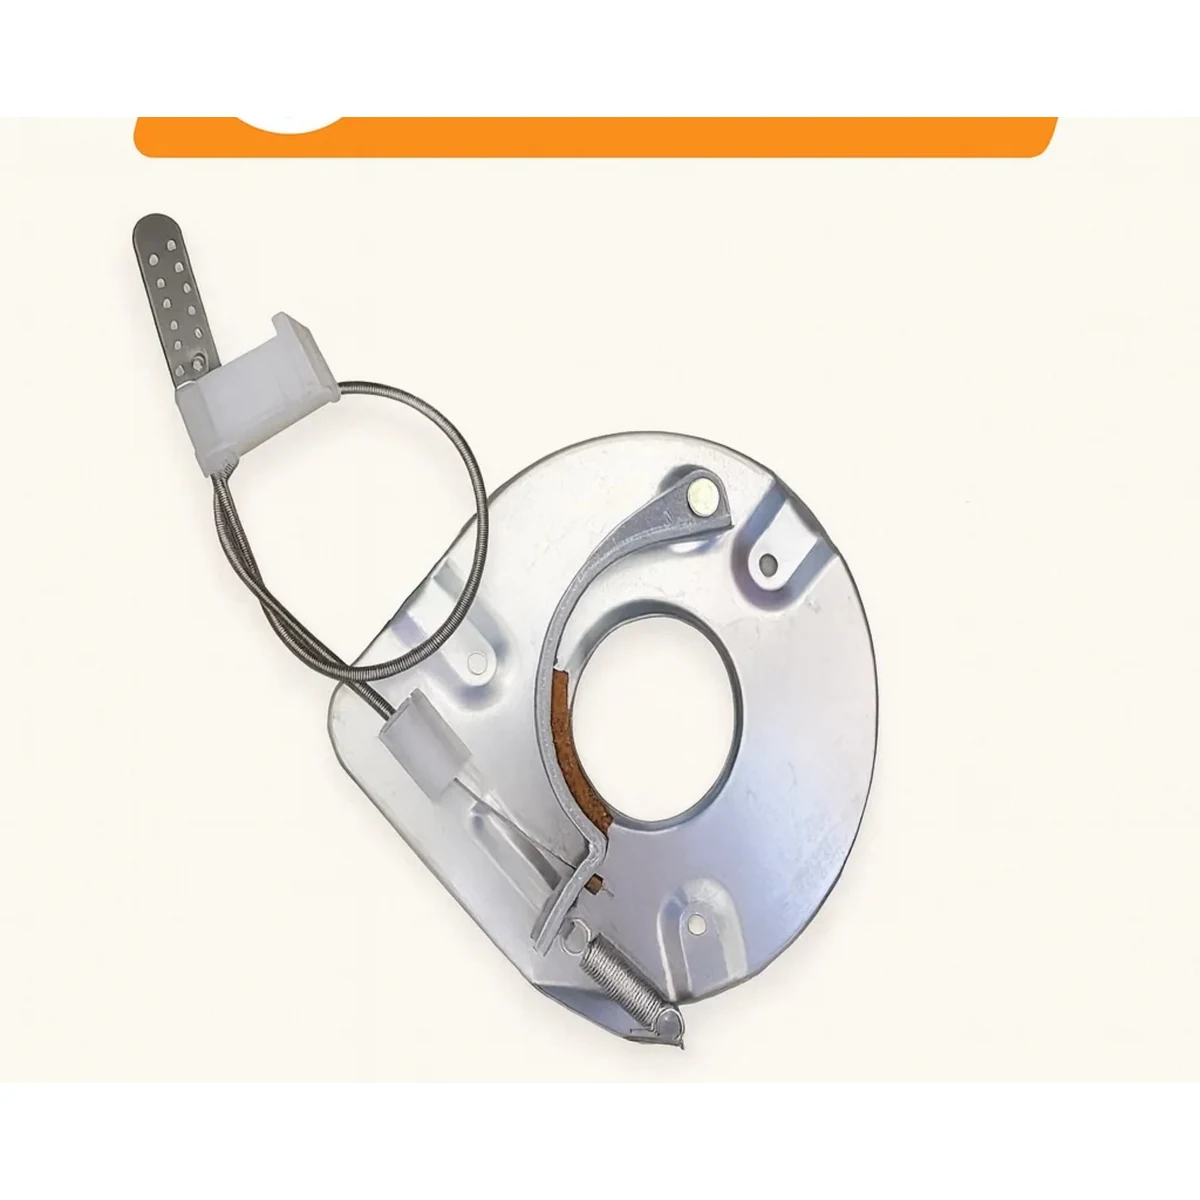
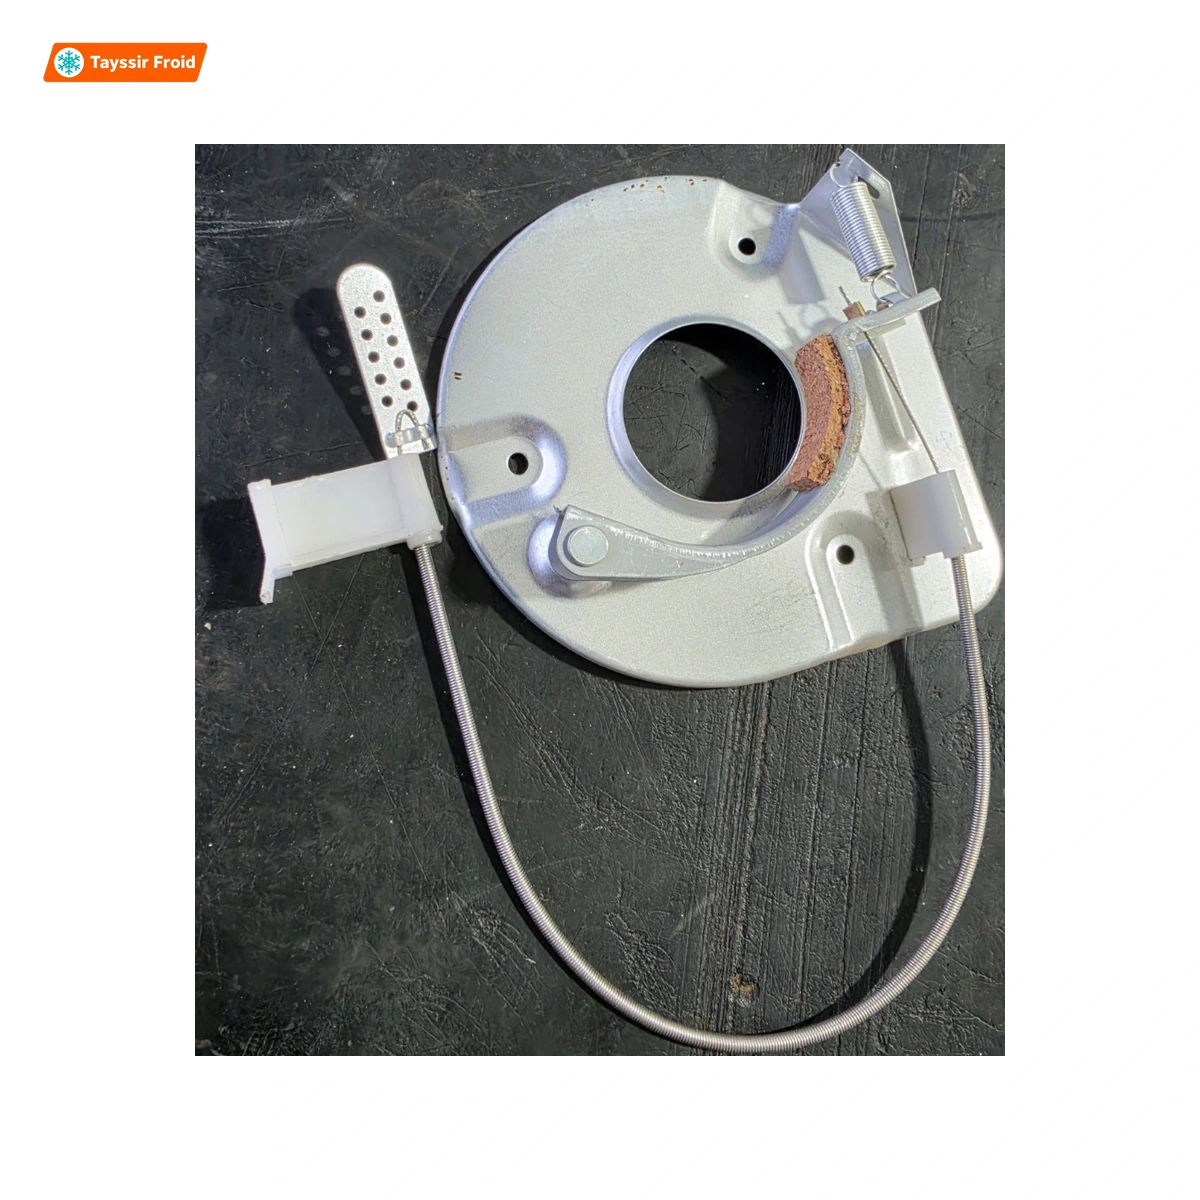
fix(catalog): replace remaining 11 unsuitable primary images with real product photos
Replace the advertising-screenshot primary images for TF-RF-005, 006,
007, 008, 009, 010, 012, 013, 016, 021, and TF-WM-046 with real product
photos, normalized to 1200x1200 WEBP with the Tayssir Froid logo
applied, matching the Phase 1 catalog convention.

TF-RF-007/TF-RF-012 mapped from the two unlabeled reference photos by
visually cross-checking them against each product's existing image
(NMB DC12V axial fan vs. LG AC white round motor) rather than guessing.
TF-RF-021's shared placeholder path (product-images/shared/) moved to
its own product folder since no TF-RF-022 product exists.

The Meta Commerce Catalog unsuitable-image exclusion list, audit
report, and image_manual_review.csv are now empty of these SKUs
(issue count 130 -> 119; excludedFromFeed 0). Only image paths changed
in product data — no name, price, description, stock, or category
touched.

diff --git a/src/lib/feed/__tests__/metaCatalog.test.ts b/src/lib/feed/__tests__/metaCatalog.test.ts
@@ -1,31 +1,12 @@
 import { describe, expect, test } from "vitest";
 import { buildCatalogExport, rowsToCsv } from "@/lib/feed/metaCatalog";
 
-const UNSUITABLE_IMAGE_SKUS = [
-  "TF-RF-005",
-  "TF-RF-006",
-  "TF-RF-007",
-  "TF-RF-008",
-  "TF-RF-009",
-  "TF-RF-010",
-  "TF-RF-012",
-  "TF-RF-013",
-  "TF-RF-016",
-  "TF-RF-021",
-  "TF-WM-046",
-];
-
 describe("buildCatalogExport (Meta Commerce Catalog)", () => {
-  test("لا يستبعد سوى المنتجات ذات الصورة الرئيسية غير المناسبة، ويحسب الصفوف بشكل صحيح مع Variants", async () => {
+  test("لا يستبعد أي منتج بسبب الصورة الرئيسية بعد إصلاح جميع الصور المشكوك فيها", async () => {
     const result = await buildCatalogExport();
 
     expect(result.totalProducts).toBeGreaterThan(0);
-    expect(result.excludedFromFeed).toBe(UNSUITABLE_IMAGE_SKUS.length);
-
-    const ids = new Set(result.rows.map((r) => r.id));
-    for (const sku of UNSUITABLE_IMAGE_SKUS) {
-      expect(ids.has(sku)).toBe(false);
-    }
+    expect(result.excludedFromFeed).toBe(0);
   });
 
   test("المنتج ذو الصورة الثانوية المشكوك فيها فقط (وليست الرئيسية) يبقى في الخلاصة", async () => {

diff --git a/src/lib/feed/metaCatalog.ts b/src/lib/feed/metaCatalog.ts
@@ -10,19 +10,7 @@ const CURRENCY = "MAD";
 // كاملة فيها ثمن/واجهة هاتف، أو شعار جزئي مشكوك فيه) — نفس قائمة
 // image_manual_review.csv في جذر المشروع بالضبط. حدِّث هذه القائمة إذا
 // تغيّر ذلك الملف (صور جديدة أو صور أُصلحت).
-const UNSUITABLE_PRIMARY_IMAGE_SKUS = new Set([
-  "TF-RF-005",
-  "TF-RF-006",
-  "TF-RF-007",
-  "TF-RF-008",
-  "TF-RF-009",
-  "TF-RF-010",
-  "TF-RF-012",
-  "TF-RF-013",
-  "TF-RF-016",
-  "TF-RF-021",
-  "TF-WM-046",
-]);
+const UNSUITABLE_PRIMARY_IMAGE_SKUS = new Set<string>([]);
 
 // أوصاف عامة مكرَّرة عبر عشرات المنتجات (من الدفعات القديمة، قبل كتابة
 // وصف خاص بكل منتج) — تُقبَل في الخلاصة (ليست خطأ حقيقياً) لكن تُعلَّم في
